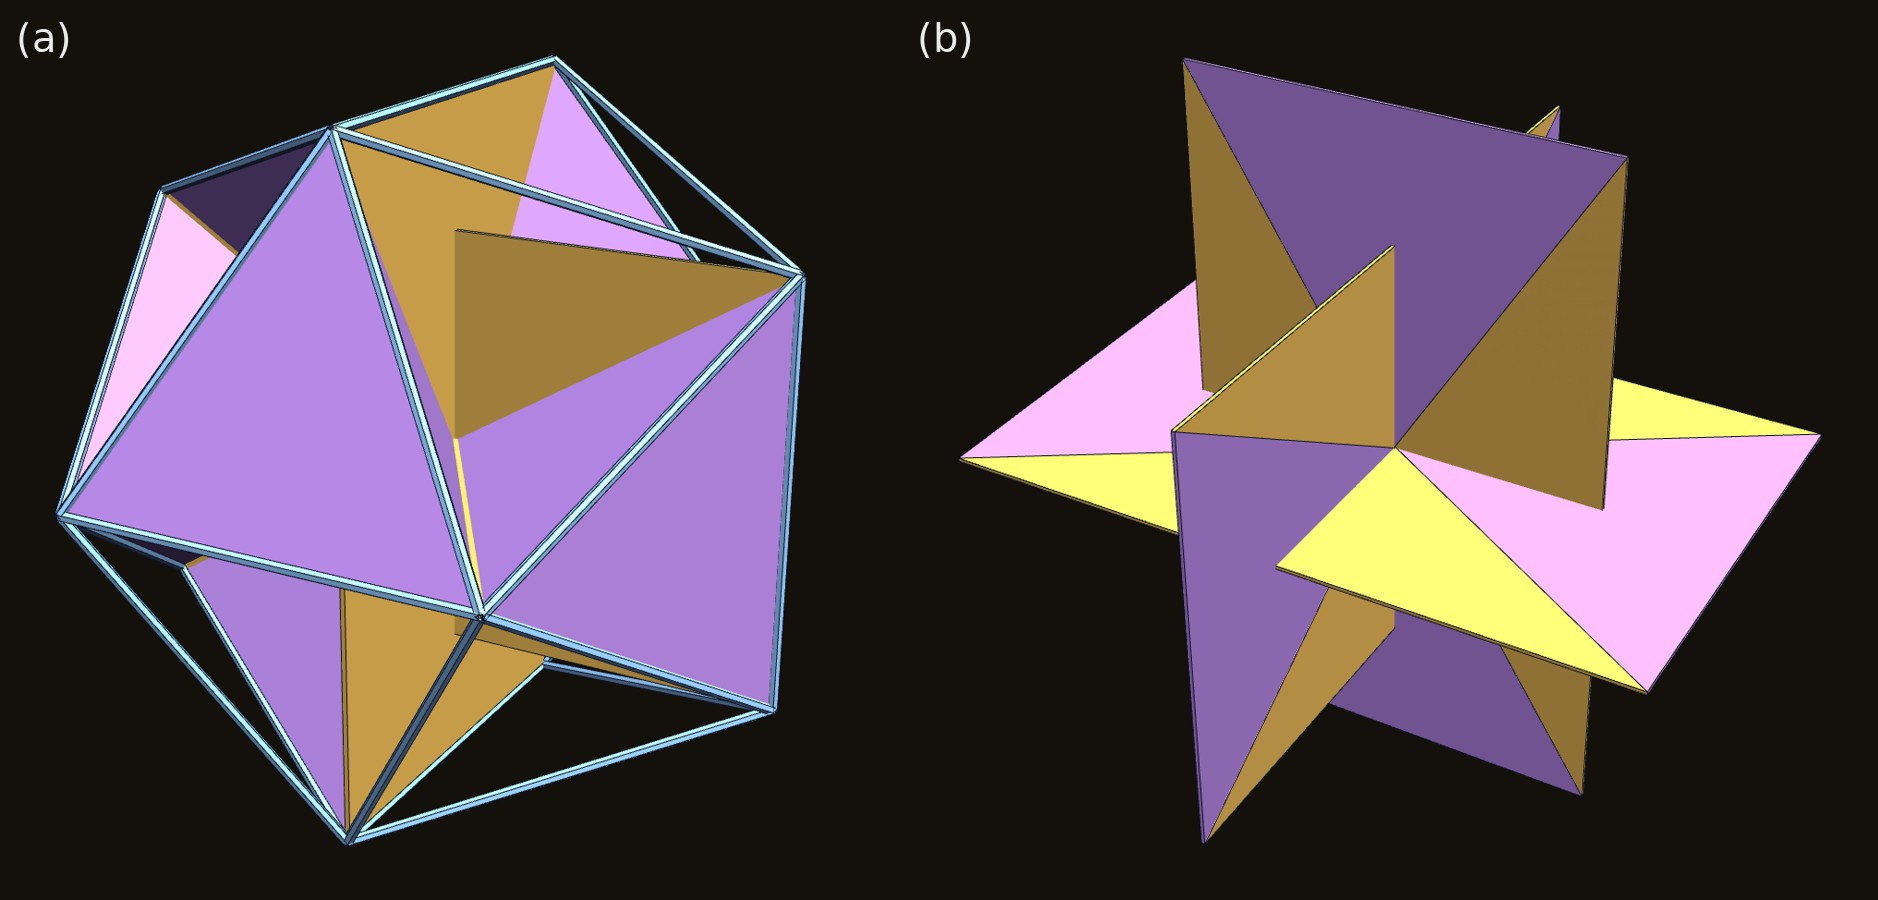
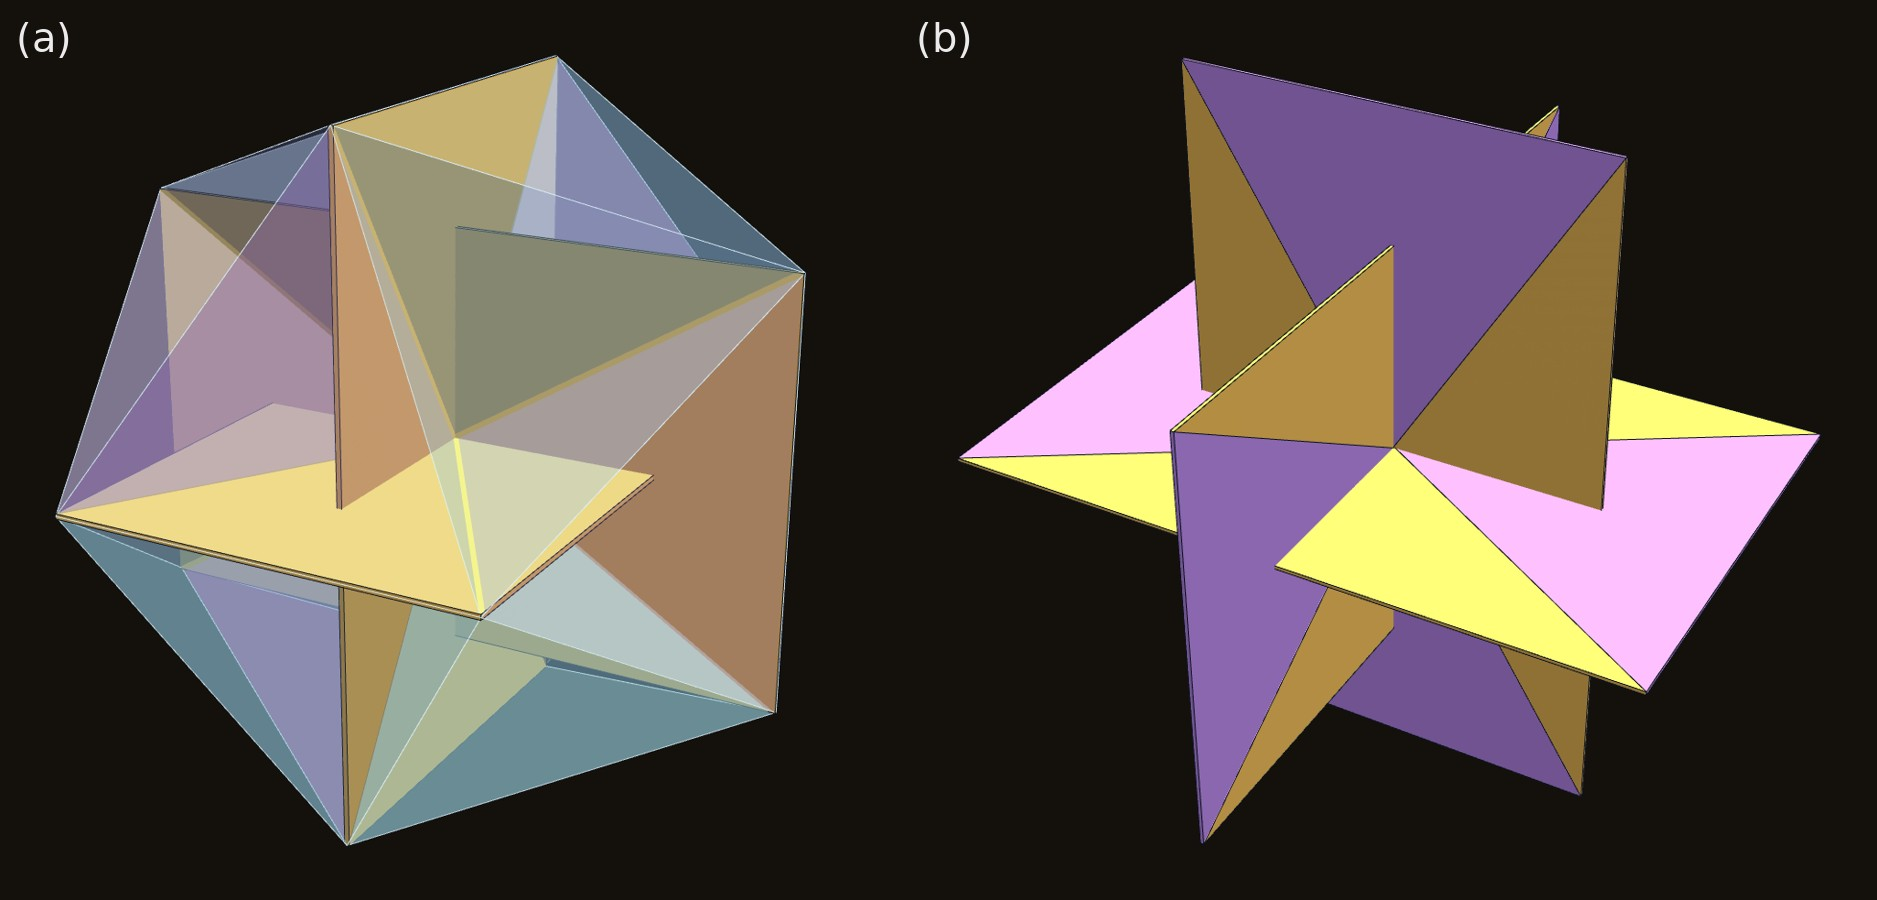
Pacioli figure: crystal view (glass Cleo-Icos, gold rectangles); renderer glass tags (DICTO)

Changed region(s): [[0.0309, 0.0622, 0.4326, 0.9333], [0.4944, 0.0311, 0.5253, 0.0622]]

diff --git a/studies/2026-10-14-fuji-family/scripts/render-pieces.html b/studies/2026-10-14-fuji-family/scripts/render-pieces.html
@@ -18,14 +18,24 @@ window.show = (name, dir, up, fixR) => {
   if (current) scene.remove(current);
   const P = DATA[name]; const c = P.v.reduce((a, v) => a.map((x, i) => x + v[i] / P.v.length), [0, 0, 0]);
   const V = P.v.map(v => v.map((x, i) => x - c[i]));
-  const g = new THREE.Group(), pos = [], col = [], ep = [], cc = new THREE.Color();
-  P.f.forEach((f, fi) => { cc.setHex(COL[P.t[fi]] ?? 0xcccccc);
-    for (let i = 1; i + 1 < f.length; i++) for (const k of [f[0], f[i], f[i + 1]]) { pos.push(...V[k]); col.push(cc.r, cc.g, cc.b); }
-    for (let i = 0; i < f.length; i++) ep.push(...V[f[i]], ...V[f[(i + 1) % f.length]]); });
-  const geo = new THREE.BufferGeometry(); geo.setAttribute('position', new THREE.Float32BufferAttribute(pos, 3)); geo.setAttribute('color', new THREE.Float32BufferAttribute(col, 3)); geo.computeVertexNormals();
-  const lg = new THREE.BufferGeometry(); lg.setAttribute('position', new THREE.Float32BufferAttribute(ep, 3));
-  g.add(new THREE.Mesh(geo, new THREE.MeshStandardMaterial({ vertexColors: true, flatShading: true, side: THREE.DoubleSide, roughness: .8, metalness: 0, polygonOffset: true, polygonOffsetFactor: 1, polygonOffsetUnits: 1 })),
-        ...(P.f.length > 5000 ? [] : [new THREE.LineSegments(lg, new THREE.LineBasicMaterial({ color: 0x0b1220 }))]));
+  // Crystal (DICTO 2026-10-14): a tag ending in 'g' (w1g, w5g, ...) is see-through glass of that colour, its edges pale.
+  const g = new THREE.Group(), cc = new THREE.Color();
+  const buf = { solid: { pos: [], col: [], ep: [] }, glass: { pos: [], col: [], ep: [] } };
+  P.f.forEach((f, fi) => { const tag = P.t[fi] ?? ''; const isGlass = tag.length > 2 && tag.endsWith('g'); const b = isGlass ? buf.glass : buf.solid;
+    cc.setHex(COL[isGlass ? tag.slice(0, -1) : tag] ?? 0xcccccc);
+    for (let i = 1; i + 1 < f.length; i++) for (const k of [f[0], f[i], f[i + 1]]) { b.pos.push(...V[k]); b.col.push(cc.r, cc.g, cc.b); }
+    for (let i = 0; i < f.length; i++) b.ep.push(...V[f[i]], ...V[f[(i + 1) % f.length]]); });
+  for (const [key, b] of Object.entries(buf)) {
+    if (!b.pos.length) continue;
+    const geo = new THREE.BufferGeometry(); geo.setAttribute('position', new THREE.Float32BufferAttribute(b.pos, 3)); geo.setAttribute('color', new THREE.Float32BufferAttribute(b.col, 3)); geo.computeVertexNormals();
+    const lg = new THREE.BufferGeometry(); lg.setAttribute('position', new THREE.Float32BufferAttribute(b.ep, 3));
+    const glass = key === 'glass';
+    const mesh = new THREE.Mesh(geo, new THREE.MeshStandardMaterial({ vertexColors: true, flatShading: true, side: THREE.DoubleSide, roughness: .8, metalness: 0,
+      transparent: glass, opacity: glass ? 0.22 : 1, depthWrite: !glass, polygonOffset: true, polygonOffsetFactor: 1, polygonOffsetUnits: 1 }));
+    if (glass) mesh.renderOrder = 2;
+    g.add(mesh);
+    if (P.f.length <= 5000) g.add(new THREE.LineSegments(lg, new THREE.LineBasicMaterial(glass ? { color: 0xd8f0ff, transparent: true, opacity: 0.55 } : { color: 0x0b1220 })));
+  }
   scene.add(g); current = g;
   const R = fixR ?? V.reduce((m, v) => Math.max(m, Math.hypot(...v)), 0);
   const d = new THREE.Vector3(...dir).normalize(), dist = R * 1.18 / Math.sin(THREE.MathUtils.degToRad(15));

diff --git a/studies/2026-10-14-fuji-family/scripts/pacioli_fig.py b/studies/2026-10-14-fuji-family/scripts/pacioli_fig.py
@@ -1,4 +1,4 @@
-# Figure (DICTO 2026-10-14): Pacioli's three golden rectangles and the 20 Cleo-Icos. (a) the icosahedron as an outline, the 6 Cleo-Icos on the rectangles' short sides, and the
+# Figure (DICTO 2026-10-14): Pacioli's three golden rectangles and the 20 Cleo-Icos. (a) crystal view: all 20 Cleo-Icos as glass (the 6 on the rectangles' short sides wisteria), and the
 # three rectangles through the centre; (b) the rectangles alone, each cut by its diagonals: the short-side triangles (63.43° at the
 # centre, Cleo-Icos side faces) wisteria, the long-side triangles (116.57°) gold. DICTO · dictospheres.com
 import itertools, json, os
@@ -28,16 +28,17 @@ def rod(p, q, r=0.012):
     d = q - p; d /= np.linalg.norm(d); e1 = np.cross(d, [1, 0, 0] if abs(d[0]) < .9 else [0, 1, 0]); e1 /= np.linalg.norm(e1); e2 = np.cross(d, e1)
     ring = [r * (np.cos(t) * e1 + np.sin(t) * e2) for t in np.linspace(0, 2 * np.pi, 7)[:-1]]
     return [[p + ring[k], p + ring[(k + 1) % 6], q + ring[(k + 1) % 6], q + ring[k]] for k in range(6)]
-E1 = [(a_, b_) for a_, b_ in itertools.combinations(range(12), 2) if abs(np.linalg.norm(V[a_] - V[b_]) - 1) < 1e-9]
-for a_, b_ in E1: a_items.append(('w5', rod(V[a_], V[b_])))
+defining = set()
 for z, R in enumerate(RECTS):
     for k in range(4):
         p, q = R[k], R[(k + 1) % 4]
         if abs(np.linalg.norm(p - q) - 1) > 1e-9: continue
         f = [t for t in F if all(any(np.allclose(V[i], x) for i in t) for x in (p, q))]
-        f = max(f, key=lambda t: V[list(t)].mean(0) @ np.roll(np.eye(3)[z], 1))      # one of the two faces on this edge, chosen the same way on each side
-        T = [np.zeros(3)] + [V[i] for i in f]
-        a_items.append(('w1', [[T[1], T[2], T[3]], [T[0], T[2], T[1]], [T[0], T[3], T[2]], [T[0], T[1], T[3]]]))
+        defining.add(max(f, key=lambda t: V[list(t)].mean(0) @ np.roll(np.eye(3)[z], 1)))
+# crystal: all 20 Cleo-Icos as glass, the 6 the rectangles define in wisteria, the other 14 pale blue
+for f in F:
+    T = [np.zeros(3)] + [V[i] for i in f]
+    a_items.append(('w1g' if f in defining else 'w5g', [[T[1], T[2], T[3]], [T[0], T[2], T[1]], [T[0], T[3], T[2]], [T[0], T[1], T[3]]]))
 for z, R in enumerate(RECTS): a_items.append(('w2', slab(R, np.eye(3)[z])))
 b_items = []
 for z, R in enumerate(RECTS):
